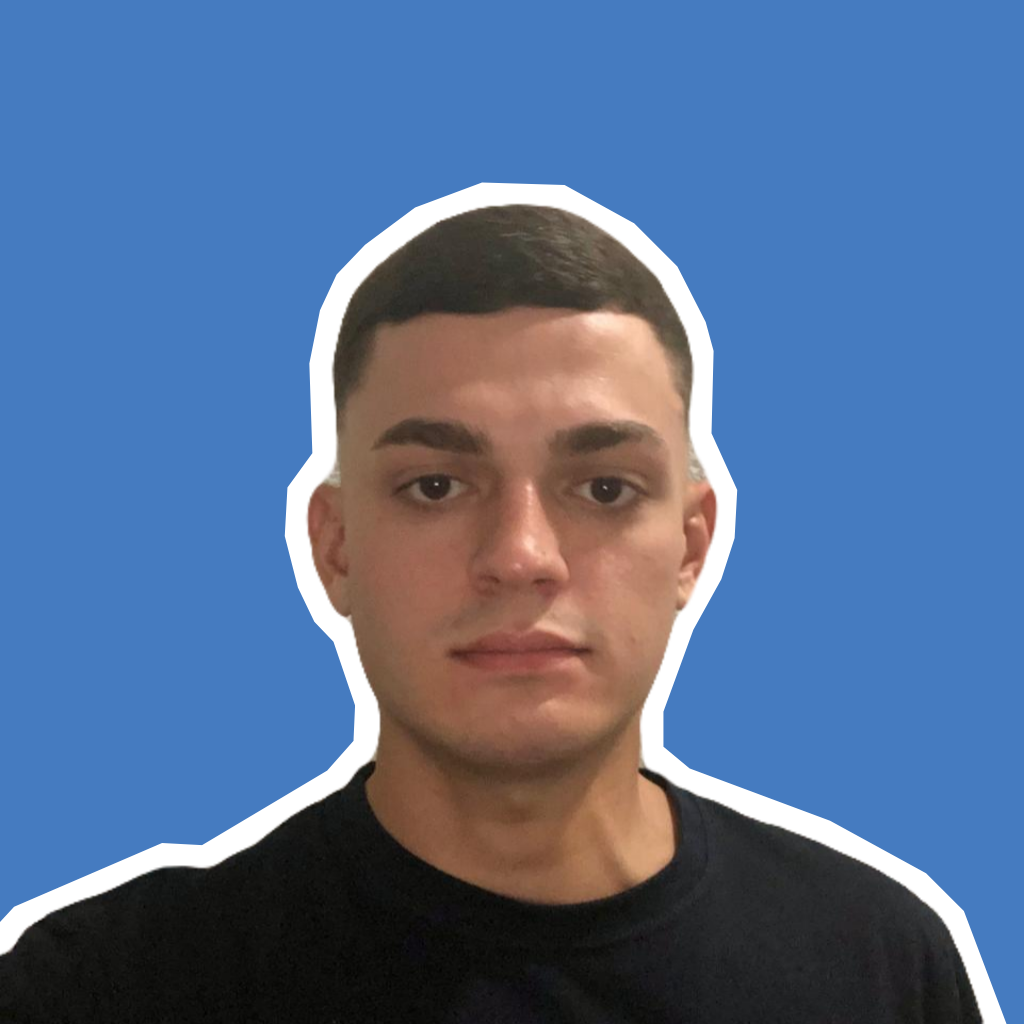
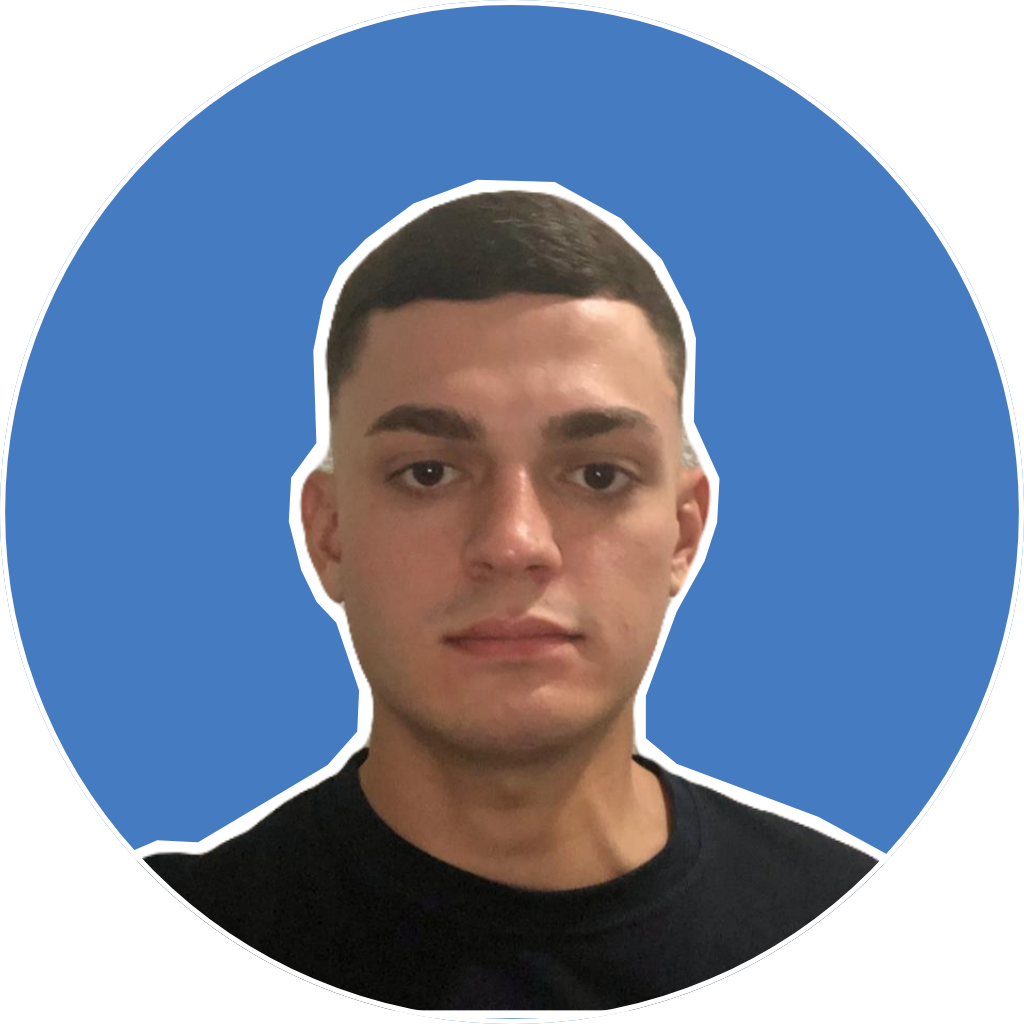
feat: changed profile picture

diff --git a/index.html b/index.html
@@ -41,7 +41,7 @@
   </div>
   <div class="container aboutme">
     <div class="row">
-      <div class="col-lg coll apresentationImg border-radius: 50%; overflow: hidden">
+      <div class="col-lg coll apresentationImg">
         <img src="./imgs/profile-pic.png" alt="fotoDePerfil" class="pfp" />
       </div>
       <div class="col-lg coll d-flex justify-content-center align-items-center flex-column">
